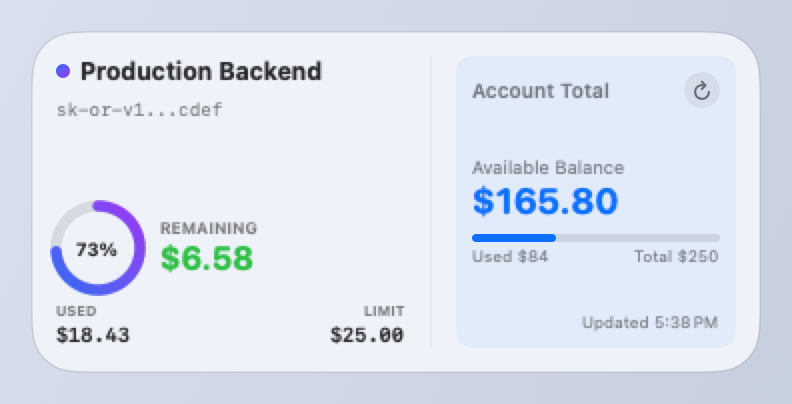
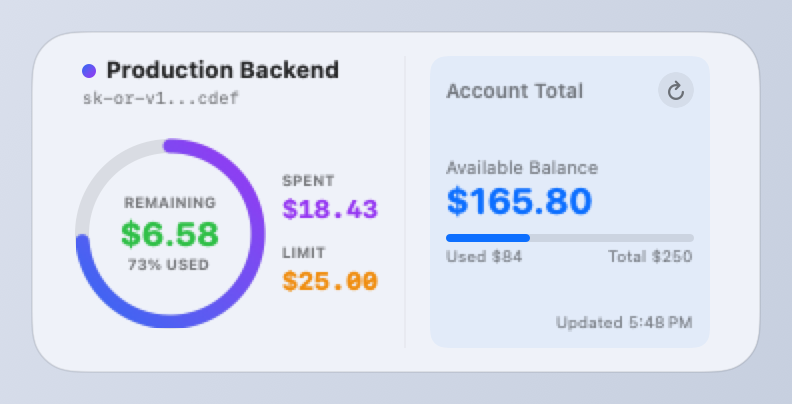
feat: make medium widget gauge prominent matching small widget

diff --git a/OpenRouterWidgetExtension/OpenRouterWidgetView.swift b/OpenRouterWidgetExtension/OpenRouterWidgetView.swift
@@ -124,86 +124,97 @@ struct MediumWidgetView: View {
         HStack(spacing: 12) {
             // LEFT COLUMN: Key-Specific Metrics (Primary)
             VStack(alignment: .leading, spacing: 6) {
-                HStack(spacing: 5) {
-                    Circle()
-                        .fill(LinearGradient(
-                            colors: [Color(red: 0.23, green: 0.51, blue: 0.96), Color(red: 0.66, green: 0.34, blue: 0.96)],
-                            startPoint: .topLeading,
-                            endPoint: .bottomTrailing
-                        ))
-                        .frame(width: 7, height: 7)
-                    Text(payload.customNickname)
-                        .font(.system(size: 12, weight: .bold))
+                VStack(alignment: .leading, spacing: 2) {
+                    HStack(spacing: 5) {
+                        Circle()
+                            .fill(OpenRouterTheme.routerGradient)
+                            .frame(width: 7, height: 7)
+                        Text(payload.customNickname)
+                            .font(.system(size: 11.5, weight: .bold))
+                            .lineLimit(1)
+                    }
+                    Text(payload.keyMasked)
+                        .font(.system(size: 8.5, design: .monospaced))
+                        .foregroundStyle(.secondary)
                         .lineLimit(1)
                 }
 
-                Text(payload.keyMasked)
-                    .font(.system(size: 9, design: .monospaced))
-                    .foregroundStyle(.secondary)
-                    .lineLimit(1)
-
-                Spacer()
+                Spacer(minLength: 0)
 
                 if let limit = payload.keyLimit, limit > 0 {
-                    HStack(spacing: 10) {
-                        // Ring
+                    HStack(spacing: 12) {
+                        // Prominent Center Radial Ring Gauge (same as Small Widget)
                         ZStack {
                             Circle()
-                                .stroke(Color.secondary.opacity(0.2), lineWidth: 5.5)
+                                .stroke(Color.secondary.opacity(0.18), lineWidth: 7.0)
                             Circle()
                                 .trim(from: 0, to: CGFloat(payload.usagePercent))
                                 .stroke(
                                     payload.gaugeStrokeGradient,
-                                    style: StrokeStyle(lineWidth: 5.5, lineCap: .round)
+                                    style: StrokeStyle(lineWidth: 7.0, lineCap: .round)
                                 )
                                 .rotationEffect(.degrees(-90))
-                            Text("\(Int(payload.usagePercent * 100))%")
-                                .font(.system(size: 9, weight: .bold))
-                        }
-                        .frame(width: 42, height: 42)
 
-                        VStack(alignment: .leading, spacing: 1) {
-                            Text("REMAINING")
-                                .font(.system(size: 8, weight: .bold))
-                                .foregroundStyle(.secondary)
-                            Text(String(format: "$%.2f", payload.keyRemaining ?? 0.0))
-                                .font(.system(size: 16, weight: .bold, design: .rounded))
-                                .foregroundStyle(.green)
-                                .lineLimit(1)
-                                .minimumScaleFactor(0.8)
+                            VStack(spacing: 1) {
+                                Text("REMAINING")
+                                    .font(.system(size: 7.5, weight: .bold))
+                                    .foregroundStyle(.secondary)
+                                Text(String(format: "$%.2f", payload.keyRemaining ?? 0.0))
+                                    .font(.system(size: 17, weight: .bold, design: .rounded))
+                                    .foregroundStyle(.green)
+                                    .lineLimit(1)
+                                    .minimumScaleFactor(0.7)
+                                Text("\(Int(payload.usagePercent * 100))% USED")
+                                    .font(.system(size: 7.5, weight: .bold, design: .rounded))
+                                    .foregroundStyle(payload.usagePercent > 0.9 ? .red : (payload.usagePercent > 0.75 ? .orange : .secondary))
+                            }
+                        }
+                        .frame(width: 88, height: 88)
+
+                        // Spend & Limit stats beside prominent gauge
+                        VStack(alignment: .leading, spacing: 10) {
+                            VStack(alignment: .leading, spacing: 1) {
+                                Text("SPENT")
+                                    .font(.system(size: 7.5, weight: .bold))
+                                    .foregroundStyle(.secondary)
+                                Text(String(format: "$%.2f", payload.keyUsage))
+                                    .font(.system(size: 13, weight: .bold, design: .monospaced))
+                                    .foregroundStyle(OpenRouterTheme.neonViolet)
+                            }
+                            VStack(alignment: .leading, spacing: 1) {
+                                Text("LIMIT")
+                                    .font(.system(size: 7.5, weight: .bold))
+                                    .foregroundStyle(.secondary)
+                                Text(String(format: "$%.2f", limit))
+                                    .font(.system(size: 13, weight: .bold, design: .monospaced))
+                                    .foregroundStyle(OpenRouterTheme.amberWarning)
+                            }
                         }
                     }
                 } else {
-                    VStack(alignment: .leading, spacing: 2) {
-                        Text("KEY SPEND")
-                            .font(.system(size: 8, weight: .bold))
+                    // Unlimited Spend View
+                    VStack(alignment: .leading, spacing: 4) {
+                        HStack(spacing: 8) {
+                            Image(systemName: "infinity.circle.fill")
+                                .font(.system(size: 28))
+                                .foregroundStyle(OpenRouterTheme.neonViolet)
+                            VStack(alignment: .leading, spacing: 1) {
+                                Text("KEY SPEND")
+                                    .font(.system(size: 8, weight: .bold))
+                                    .foregroundStyle(.secondary)
+                                Text(String(format: "$%.4f", payload.keyUsage))
+                                    .font(.system(size: 18, weight: .bold, design: .rounded))
+                                    .lineLimit(1)
+                                    .minimumScaleFactor(0.8)
+                            }
+                        }
+                        Text("Unlimited Tier")
+                            .font(.system(size: 8))
                             .foregroundStyle(.secondary)
-                        Text(String(format: "$%.4f", payload.keyUsage))
-                            .font(.system(size: 18, weight: .bold, design: .rounded))
-                            .lineLimit(1)
-                            .minimumScaleFactor(0.8)
                     }
                 }
 
-                HStack {
-                    VStack(alignment: .leading, spacing: 1) {
-                        Text("USED")
-                            .font(.system(size: 7, weight: .bold))
-                            .foregroundStyle(.secondary)
-                        Text(String(format: "$%.2f", payload.keyUsage))
-                            .font(.system(size: 10, weight: .semibold, design: .monospaced))
-                    }
-                    Spacer()
-                    if let lim = payload.keyLimit {
-                        VStack(alignment: .trailing, spacing: 1) {
-                            Text("LIMIT")
-                                .font(.system(size: 7, weight: .bold))
-                                .foregroundStyle(.secondary)
-                            Text(String(format: "$%.2f", lim))
-                                .font(.system(size: 10, weight: .semibold, design: .monospaced))
-                        }
-                    }
-                }
+                Spacer(minLength: 0)
             }
 
             Divider().opacity(0.3)
